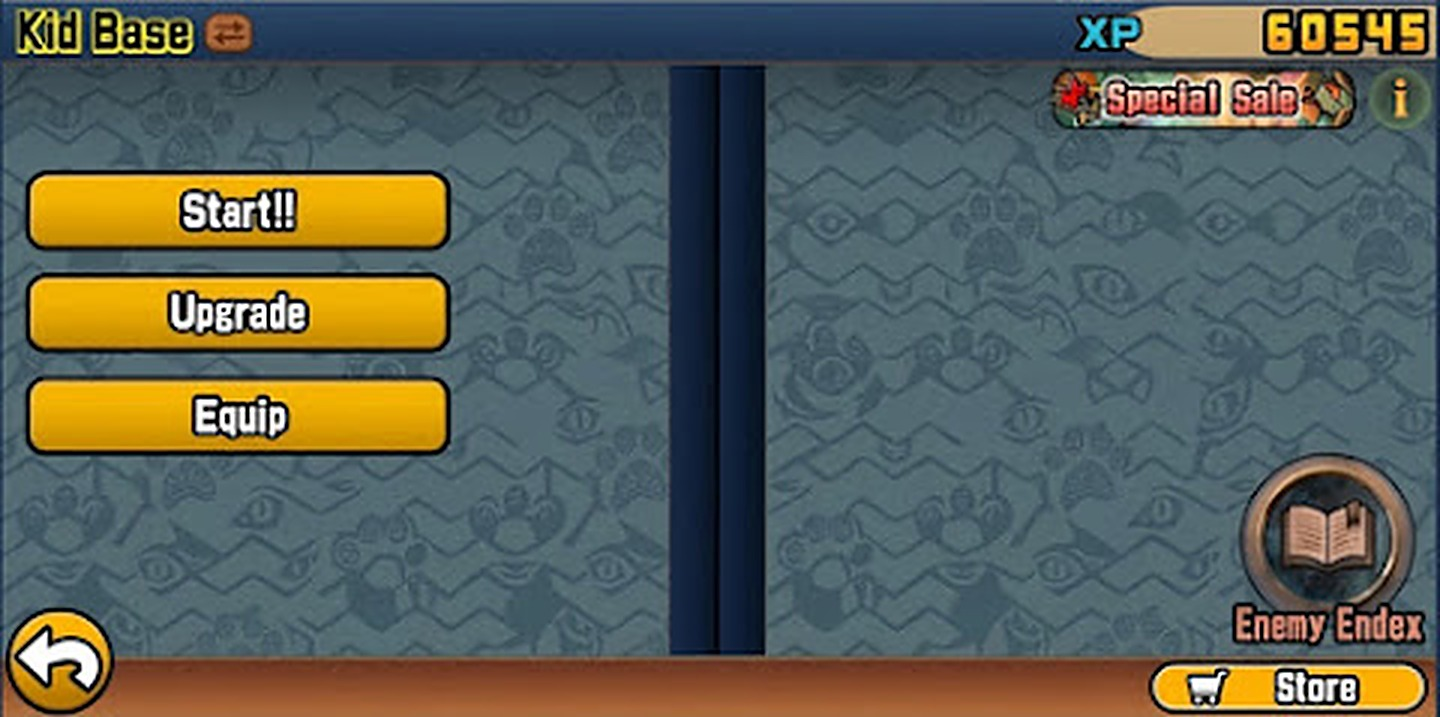
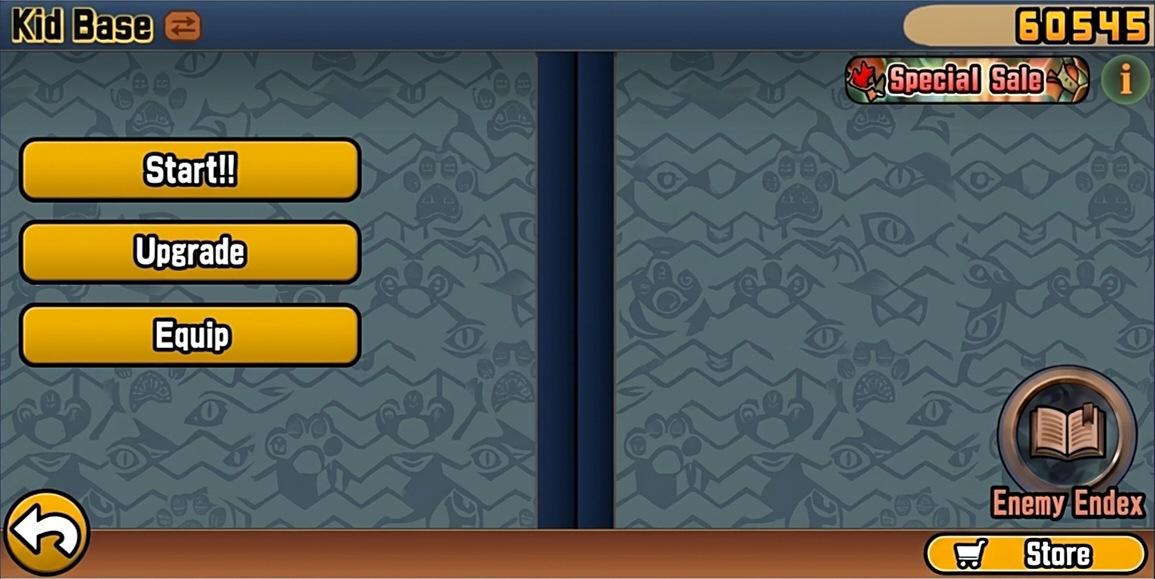
Swap in the higher-res main menu art and remeasure its buttons
Downloads: "New and improved main menu put this directly in the game!.png"
replaces menu_screen_bg.jpg with a noticeably sharper native version
(1155x579 vs the old 480x239) of the same layout — no more upscale/
sharpen-filter workaround needed for legibility.

Its pages badge no longer has "XP" baked into it, just the bare number,
but the number itself is still static art, so the same cover-with-real-
text treatment still applies. Re-measured all six button/badge bounding
boxes against the new image's own pixel dimensions since the old
fractions were tuned to the previous art's proportions.

diff --git a/apps/teacher-tower-defence/src/main.js b/apps/teacher-tower-defence/src/main.js
@@ -187,13 +187,13 @@ function bboxStyle(bbox) {
   return `left:${bbox.x0 * 100}%;top:${bbox.y0 * 100}%;width:${(bbox.x1 - bbox.x0) * 100}%;height:${(bbox.y1 - bbox.y0) * 100}%;`;
 }
 const MENU_BBOX = {
-  start: { x0: 0.010, y0: 0.234, x1: 0.320, y1: 0.349 },
-  upgrade: { x0: 0.010, y0: 0.367, x1: 0.320, y1: 0.482 },
-  equip: { x0: 0.010, y0: 0.510, x1: 0.320, y1: 0.625 },
-  store: { x0: 0.792, y0: 0.920, x1: 1.000, y1: 1.000 },
-  endex: { x0: 0.849, y0: 0.638, x1: 1.000, y1: 0.917 },
-  back: { x0: 0.000, y0: 0.845, x1: 0.090, y1: 0.975 },
-  pages: { x0: 0.730, y0: 0.000, x1: 1.000, y1: 0.090 },
+  start: { x0: 0.006, y0: 0.239, x1: 0.322, y1: 0.350 },
+  upgrade: { x0: 0.006, y0: 0.377, x1: 0.322, y1: 0.492 },
+  equip: { x0: 0.006, y0: 0.522, x1: 0.322, y1: 0.637 },
+  store: { x0: 0.792, y0: 0.916, x1: 1.000, y1: 0.994 },
+  endex: { x0: 0.735, y0: 0.638, x1: 1.000, y1: 0.905 },
+  back: { x0: 0.000, y0: 0.852, x1: 0.087, y1: 0.968 },
+  pages: { x0: 0.755, y0: 0.000, x1: 1.000, y1: 0.130 },
 };
 // The source art's own "XP  60545" badge is covered with a plain tan
 // patch (sampled from its own gradient) instead of trying to erase
